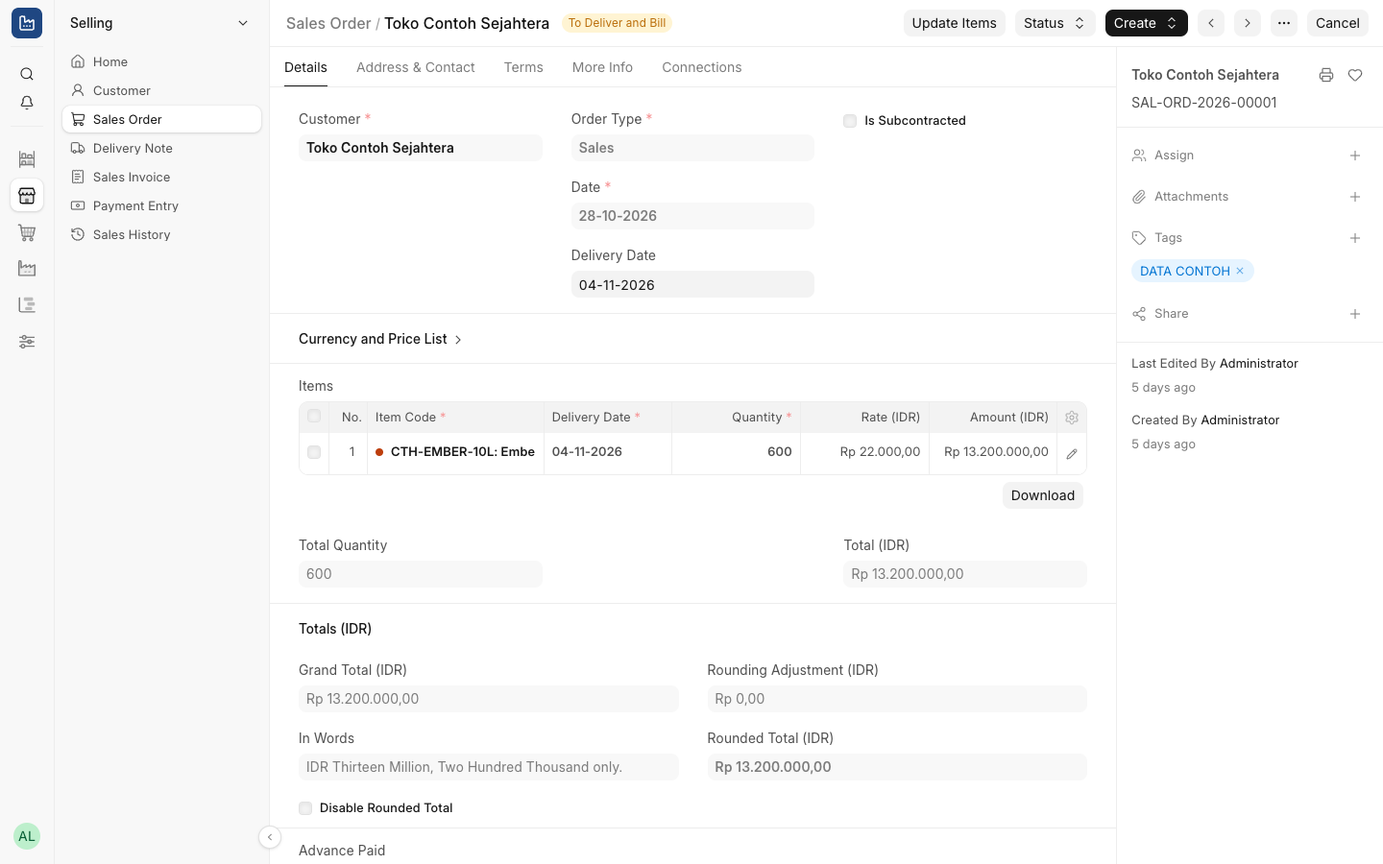
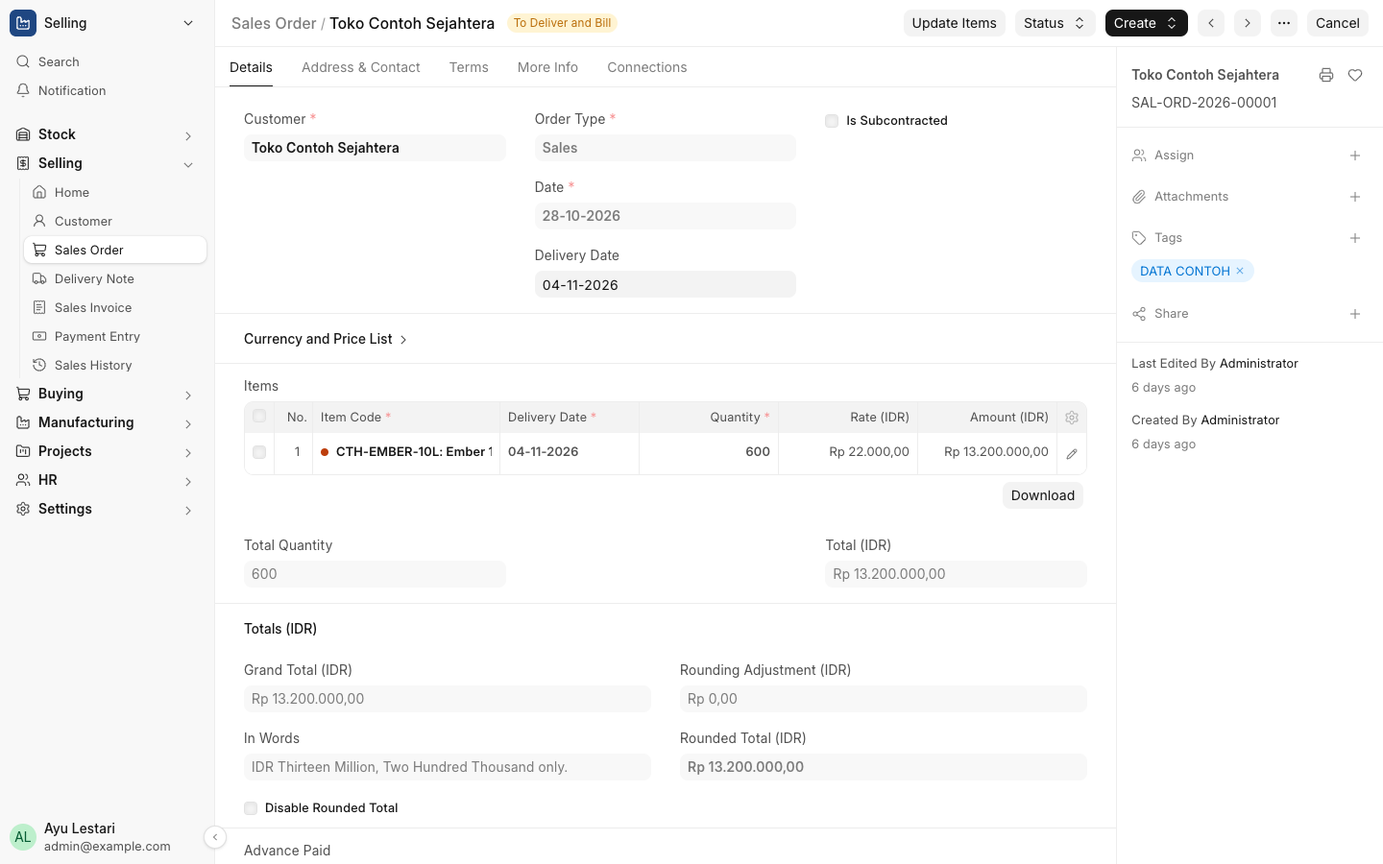
docs: the accordion menu in the rules, guides and screenshots

diff --git a/docs/superpowers/plans/2026-11-03-sidebar-accordion-plan.md b/docs/superpowers/plans/2026-11-03-sidebar-accordion-plan.md
@@ -41,10 +41,10 @@ Timebox 1 hour. Nothing from this task is committed except the notes appended to
 
 **Files:** scratch only (paste into the browser console on `http://erp.localhost:8002` as `admin@example.com`).
 
-- [ ] **Step 1:** In the console, patch `frappe.ui.Sidebar.prototype.load_sidebar_data` as Task 3 describes (merged list for the shells Stock, Selling, Buying, Manufacturing, Projects, Shift & Attendance, Setup), patch `frappe.ui.sidebar_item.TypeLink.prototype.get_path` to use `this.item.erp_shell || this.current_module`, then `frappe.app.sidebar.setup(frappe.app.sidebar.current_module)`.
-- [ ] **Step 2:** Answer and write down: (a) do sections render collapsible and open the current module (`expand_parent_section`)? (b) do hrefs of another module's links carry that module's shell, and does clicking one land with that module open and the link highlighted? (c) does section open/closed state (`section_breaks_state`, localStorage) behave per shell or need one shared key? (d) is `app_include_js` loaded before the desk's first `Sidebar.setup` (reload with the patch in the bundle via a temporary local edit, not committed)?
-- [ ] **Step 3:** Dock and fold. Hide `#desk-dock` with CSS and check what disappears with it: search, notifications (Frappe already draws both in the sidebar's `.standard-items-band`?), the user avatar menu (`.dock-user-button`), the app logo (`.dock-logo`). Then fold the sidebar: with the dock hidden, does `hides_when_collapsed()` (true while the dock is pinned) slide it shut, and what makes it fold to icons instead (setting `frappe.app.sidebar.dock.is_pinned = false`, or overriding `hides_when_collapsed` on our shells)? Pick the smallest way to keep: avatar menu reachable at the bottom left, ERP logo on top, fold to icons.
-- [ ] **Step 4:** Append "Spike notes" at the end of this plan: the answers, the chosen dock/fold method, and any change to Tasks 3-4 they force. Commit only the plan: `git commit -m "docs(plan): sidebar accordion spike notes"`.
+- [x] **Step 1:** In the console, patch `frappe.ui.Sidebar.prototype.load_sidebar_data` as Task 3 describes (merged list for the shells Stock, Selling, Buying, Manufacturing, Projects, Shift & Attendance, Setup), patch `frappe.ui.sidebar_item.TypeLink.prototype.get_path` to use `this.item.erp_shell || this.current_module`, then `frappe.app.sidebar.setup(frappe.app.sidebar.current_module)`.
+- [x] **Step 2:** Answer and write down: (a) do sections render collapsible and open the current module (`expand_parent_section`)? (b) do hrefs of another module's links carry that module's shell, and does clicking one land with that module open and the link highlighted? (c) does section open/closed state (`section_breaks_state`, localStorage) behave per shell or need one shared key? (d) is `app_include_js` loaded before the desk's first `Sidebar.setup` (reload with the patch in the bundle via a temporary local edit, not committed)?
+- [x] **Step 3:** Dock and fold. Hide `#desk-dock` with CSS and check what disappears with it: search, notifications (Frappe already draws both in the sidebar's `.standard-items-band`?), the user avatar menu (`.dock-user-button`), the app logo (`.dock-logo`). Then fold the sidebar: with the dock hidden, does `hides_when_collapsed()` (true while the dock is pinned) slide it shut, and what makes it fold to icons instead (setting `frappe.app.sidebar.dock.is_pinned = false`, or overriding `hides_when_collapsed` on our shells)? Pick the smallest way to keep: avatar menu reachable at the bottom left, ERP logo on top, fold to icons.
+- [x] **Step 4:** Append "Spike notes" at the end of this plan: the answers, the chosen dock/fold method, and any change to Tasks 3-4 they force. Commit only the plan: `git commit -m "docs(plan): sidebar accordion spike notes"`.
 
 ### Task 2: Server: the menu in boot, header icons, fixed link icons
 
@@ -57,7 +57,7 @@ Timebox 1 hour. Nothing from this task is committed except the notes appended to
 **Interfaces:**
 - Produces: `IKON_MODUL: dict[str, str]` (dock/sidebar name → Lucide name, keys exactly `IKON`'s); `IKON_RUMAH = "house"`; `menu_samping(bootinfo) -> None` sets `bootinfo.erp_menu = [{"shell": str, "label": str, "icon": str}, ...]`: `IKON` order, only shells present in `bootinfo.module_sidebars` with at least one item of type Link besides the home Workspace, `label` = `LABEL.get(shell, shell)` (untranslated; the client calls `__()`), `icon` = `IKON_MODUL[shell]`.
 
-- [ ] **Step 1: Write the failing tests**
+- [x] **Step 1: Write the failing tests**
 
 ```python
 def test_menu_samping_per_profil(self):
@@ -95,10 +95,10 @@ def test_ikon_ada(self):
 
 Extend `test_ikon_sidebar`: the first Link of each `SIDEBAR` shell (the home Workspace) has icon `IKON_RUMAH`; no shown link's icon equals its own module's `IKON_MODUL` icon.
 
-- [ ] **Step 2:** Run `cd ~/Desktop/Projects/erp-internal-bench && bench --site erp-test.localhost run-tests --module erp_internal.tests.test_tampilan`. Expected: the new tests fail (ImportError on `IKON_MODUL`/`menu_samping`).
-- [ ] **Step 3: Implement.** `IKON_MODUL` with the Global Constraints icons. `IKON_LINK`: add Stock Entry `arrow-left-right`, Delivery Note `truck`; Warehouse must not repeat Stock's `warehouse`: use `building-2` (check it exists, the sprite test will); Settings links must not repeat `settings`: use `sliders-horizontal` for all `* Settings` rows. `_baris_sidebar`: the home row (the base `beranda` and the `RUMAH_SENDIRI` row) gets `IKON_RUMAH`, under the same "only where it differs from the base" rule. `menu_samping` wrapped in `try/except Exception: frappe.log_error("erp_internal: menu_samping")`. Comment above `IKON_MODUL` says why (Abel 2026-11-03, labelled one menu). Add the hook.
-- [ ] **Step 4:** Run the module again, then `bench --site erp.localhost migrate` twice and confirm `test_idempoten` passes (a second `terapkan` writes nothing). Expected: all `test_tampilan` tests pass.
-- [ ] **Step 5:** Commit `feat(tampilan): erp_menu in boot and module icons for the accordion sidebar`.
+- [x] **Step 2:** Run `cd ~/Desktop/Projects/erp-internal-bench && bench --site erp-test.localhost run-tests --module erp_internal.tests.test_tampilan`. Expected: the new tests fail (ImportError on `IKON_MODUL`/`menu_samping`).
+- [x] **Step 3: Implement.** `IKON_MODUL` with the Global Constraints icons. `IKON_LINK`: add Stock Entry `arrow-left-right`, Delivery Note `truck`; Warehouse must not repeat Stock's `warehouse`: use `building-2` (check it exists, the sprite test will); Settings links must not repeat `settings`: use `sliders-horizontal` for all `* Settings` rows. `_baris_sidebar`: the home row (the base `beranda` and the `RUMAH_SENDIRI` row) gets `IKON_RUMAH`, under the same "only where it differs from the base" rule. `menu_samping` wrapped in `try/except Exception: frappe.log_error("erp_internal: menu_samping")`. Comment above `IKON_MODUL` says why (Abel 2026-11-03, labelled one menu). Add the hook.
+- [x] **Step 4:** Run the module again, then `bench --site erp.localhost migrate` twice and confirm `test_idempoten` passes (a second `terapkan` writes nothing). Expected: all `test_tampilan` tests pass.
+- [x] **Step 5:** Commit `feat(tampilan): erp_menu in boot and module icons for the accordion sidebar`.
 
 ### Task 3: Client: the accordion
 
@@ -111,11 +111,11 @@ Extend `test_ikon_sidebar`: the first Link of each `SIDEBAR` shell (the home Wor
 - Consumes: `frappe.boot.erp_menu` (Task 2), `frappe.boot.module_sidebars[shell].items`, the Spike notes' dock/fold method.
 - Produces: `erp_internal.menu_samping.gabung(menu, sidebars) -> Array<item>` (pure, exported on `erp_internal.menu_samping` for the console and cek_layar): for each menu entry a `{type: "Section Break", label: __(m.label), icon: m.icon, collapsible: 1, erp_shell: m.shell}` followed by copies of that shell's items with `child: 1` and `erp_shell: m.shell`; a shell's own Section Breaks are dropped (one level of nesting only), its children kept flat under the module. Body class `erp-menu` while the sidebar shows our menu.
 
-- [ ] **Step 1: Implement `gabung` and the patches.** Patch `frappe.ui.Sidebar.prototype.load_sidebar_data`: call the original; if `erp_menu` names `this.current_module`, or the current module is `Accounts`/`Leaves` (`MODUL_TANPA_IKON`: show the menu with no section forced open), set `this.sidebar_items = gabung(...)` and run `this.nest_section_items()`; toggle `body.erp-menu`. Patch `frappe.ui.sidebar_item.TypeLink.prototype.get_path` to pass `this.item.erp_shell || this.current_module`. Draw the header icon on our Section Breaks (Frappe's template draws none for a non-indented one): after `make_sidebar`, prepend `frappe.utils.icon(icon, "sm")` to each `.section-item[data-id=<label>] .section-break`. Section state: as the spike found (one shared key if per-shell state makes sections jump). Keep the file's comments to the why, like `erp_internal.bundle.js`.
-- [ ] **Step 2: Fallback.** Wrap each patched body in `try { … } catch (e) { console.error("erp_internal menu_samping", e); return original result; }` so Frappe's own list shows.
-- [ ] **Step 3: Header and CSS.** Under `body.erp-menu` the sidebar header (`sidebar_header.js`, today the module name with its switcher) shows the ERP tile's icon and title (`app_logo_url`/`app_title` of the `erpnext` entry in `frappe.boot.app_data`, set by `merek_aplikasi`) linking to `/desk`, on HR pages too. Then: hide the dock per the spike's method; section headers read as menu rows (normal weight 600, 13 px, same padding as links, chevron right/down), not small grey captions; folded sidebar shows header icons only with `title` tooltips; move the fold arrow rule that parks it in the dock (`.sidebar-hidden … left: -45px`) so it applies only when the dock shows (`body:not(.erp-menu)`), and place it at the sidebar's bottom edge otherwise, still >= 32 px.
-- [ ] **Step 4: Check by hand** on `erp.localhost` after `bench build --app erp_internal` and a hard reload, as admin@: Stock Entry page shows seven headers with Stock open; a click on Selling ▸ Sales Order lands on `/desk/selling/sales-order` with Selling open and the link highlighted; Accounts page: open a Sales Invoice from Selling, the accordion shows; fold, reload, unfold; System app (developer@, Build tile) shows Frappe's rail. Temporarily throw inside `gabung` and confirm the old dock + sidebar show, then remove the throw.
-- [ ] **Step 5:** Commit `feat(desk): one labelled accordion sidebar on ERP and HR pages`.
+- [x] **Step 1: Implement `gabung` and the patches.** Patch `frappe.ui.Sidebar.prototype.load_sidebar_data`: call the original; if `erp_menu` names `this.current_module`, or the current module is `Accounts`/`Leaves` (`MODUL_TANPA_IKON`: show the menu with no section forced open), set `this.sidebar_items = gabung(...)` and run `this.nest_section_items()`; toggle `body.erp-menu`. Patch `frappe.ui.sidebar_item.TypeLink.prototype.get_path` to pass `this.item.erp_shell || this.current_module`. Draw the header icon on our Section Breaks (Frappe's template draws none for a non-indented one): after `make_sidebar`, prepend `frappe.utils.icon(icon, "sm")` to each `.section-item[data-id=<label>] .section-break`. Section state: as the spike found (one shared key if per-shell state makes sections jump). Keep the file's comments to the why, like `erp_internal.bundle.js`.
+- [x] **Step 2: Fallback.** Wrap each patched body in `try { … } catch (e) { console.error("erp_internal menu_samping", e); return original result; }` so Frappe's own list shows.
+- [x] **Step 3: Header and CSS.** Under `body.erp-menu` the sidebar header (`sidebar_header.js`, today the module name with its switcher) shows the ERP tile's icon and title (`app_logo_url`/`app_title` of the `erpnext` entry in `frappe.boot.app_data`, set by `merek_aplikasi`) linking to `/desk`, on HR pages too. Then: hide the dock per the spike's method; section headers read as menu rows (normal weight 600, 13 px, same padding as links, chevron right/down), not small grey captions; folded sidebar shows header icons only with `title` tooltips; move the fold arrow rule that parks it in the dock (`.sidebar-hidden … left: -45px`) so it applies only when the dock shows (`body:not(.erp-menu)`), and place it at the sidebar's bottom edge otherwise, still >= 32 px.
+- [x] **Step 4: Check by hand** on `erp.localhost` after `bench build --app erp_internal` and a hard reload, as admin@: Stock Entry page shows seven headers with Stock open; a click on Selling ▸ Sales Order lands on `/desk/selling/sales-order` with Selling open and the link highlighted; Accounts page: open a Sales Invoice from Selling, the accordion shows; fold, reload, unfold; System app (developer@, Build tile) shows Frappe's rail. Temporarily throw inside `gabung` and confirm the old dock + sidebar show, then remove the throw.
+- [x] **Step 5:** Commit `feat(desk): one labelled accordion sidebar on ERP and HR pages`.
 
 ### Task 4: cek_layar per role
 
@@ -125,10 +125,10 @@ Extend `test_ikon_sidebar`: the first Link of each `SIDEBAR` shell (the home Wor
 **Interfaces:**
 - Consumes: `erp_internal.menu_samping.gabung`, `body.erp-menu`, `.section-item`, the menu labels.
 
-- [ ] **Step 1: Replace the rail checks** (the per-app rail module list and the folded-arrow-in-dock check, around lines 100-170) with, per profile (`PROFIL[p].modul`, same order as `IKON`): `#desk-dock` not visible on an ERP page; the section headers' text equals the profile's labels (`LABEL` names: HR, Settings) in order; each header has an icon; clicking a closed header shows its links; the module of the page opened is open on arrival; fold → icons only and the arrow >= 32 px with nothing over its centre, reload keeps it folded, unfold.
-- [ ] **Step 2: Cross-module and edge checks:** from Stock click Selling ▸ Delivery Note: URL `/desk/selling/delivery-note`, exactly one `.active-sidebar` (or Frappe's active class, as found in the spike) and it sits under Selling; Admin: open `/desk/selling/sales-invoice/new`, the accordion shows; Developer: Build tile shows `#desk-dock` (Frappe's rail kept); at 390x844 the drawer opens with the same headers and closes after a link click. Screenshot `<profile>-menu.png` and `<profile>-menu-lipat.png` in `tools/hasil/`.
-- [ ] **Step 3:** Run `ERP_SANDI=<SAMPLE_PASSWORD> node tools/cek_layar.mjs` (bench running, after `bench build --app erp_internal`). Expected: exit 0, all three users OK.
-- [ ] **Step 4:** Commit `test(cek_layar): the accordion sidebar per role`.
+- [x] **Step 1: Replace the rail checks** (the per-app rail module list and the folded-arrow-in-dock check, around lines 100-170) with, per profile (`PROFIL[p].modul`, same order as `IKON`): `#desk-dock` not visible on an ERP page; the section headers' text equals the profile's labels (`LABEL` names: HR, Settings) in order; each header has an icon; clicking a closed header shows its links; the module of the page opened is open on arrival; fold → icons only and the arrow >= 32 px with nothing over its centre, reload keeps it folded, unfold.
+- [x] **Step 2: Cross-module and edge checks:** from Stock click Selling ▸ Delivery Note: URL `/desk/selling/delivery-note`, exactly one `.active-sidebar` (or Frappe's active class, as found in the spike) and it sits under Selling; Admin: open `/desk/selling/sales-invoice/new`, the accordion shows; Developer: Build tile shows `#desk-dock` (Frappe's rail kept); at 390x844 the drawer opens with the same headers and closes after a link click. Screenshot `<profile>-menu.png` and `<profile>-menu-lipat.png` in `tools/hasil/`.
+- [x] **Step 3:** Run `ERP_SANDI=<SAMPLE_PASSWORD> node tools/cek_layar.mjs` (bench running, after `bench build --app erp_internal`). Expected: exit 0, all three users OK.
+- [x] **Step 4:** Commit `test(cek_layar): the accordion sidebar per role`.
 
 ### Task 5: Docs, guide screenshots, full run
 
@@ -138,7 +138,22 @@ Extend `test_ikon_sidebar`: the first Link of each `SIDEBAR` shell (the home Wor
 - Modify: `docs/panduan/*.md` wording about the icon rail; retake every `docs/panduan/gambar/*.png` that shows the sidebar
 - Modify: `docs/TODO.md`, `docs/PROGRESS.md`
 
-- [ ] **Step 1:** `grep -rn -i "rail\|dock\|icon" CLAUDE.md README.md docs/panduan .claude/rules` and fix every line the change made wrong. Retake the guide screenshots the way they were made (see `docs/panduan/` and PROGRESS for the script used last time).
-- [ ] **Step 2:** Run `bench --site erp-test.localhost run-tests --app erp_internal`, `node --test tools/denah.test.mjs`, `ERP_SANDI=… node tools/lantai.mjs` (Production Floor still full screen). Expected: all pass.
-- [ ] **Step 3:** Run the `docs-sync` agent with the changed files; fix what it finds.
-- [ ] **Step 4:** Commit `docs: the accordion sidebar in the rules, guides and screenshots`.
+- [x] **Step 1:** `grep -rn -i "rail\|dock\|icon" CLAUDE.md README.md docs/panduan .claude/rules` and fix every line the change made wrong. Retake the guide screenshots the way they were made (see `docs/panduan/` and PROGRESS for the script used last time).
+- [x] **Step 2:** Run `bench --site erp-test.localhost run-tests --app erp_internal`, `node --test tools/denah.test.mjs`, `ERP_SANDI=… node tools/lantai.mjs` (Production Floor still full screen). Expected: all pass.
+- [x] **Step 3:** Run the `docs-sync` agent with the changed files; fix what it finds.
+- [x] **Step 4:** Commit `docs: the accordion sidebar in the rules, guides and screenshots`.
+
+## Execution notes (2026-11-03)
+
+- Task 1 (spike) was folded into Task 3: Frappe's dock-less mode already gives search, notifications, the user menu
+  and fold-to-icons, so the only point to prove was the patch itself, done directly in the browser.
+- The dock is not hidden by CSS: `menu_samping.js` makes `Sidebar.dock_enabled` return false on our shells, and the
+  header is Frappe's own dock-less header (the app's icon and the module, with its switcher), not "ERP" everywhere.
+- Section state: one shared key `erp_menu` (patch on `TypeSectionBreak.prepare`); headers are `keep_closed`, and a
+  `make_sidebar` patch opens the page's own module even when no link is lit (a module home, a phone's shut drawer).
+- Icons beyond the plan: Purchase Order `clipboard-list`, Work Order `wrench`, Project `folder-open`, since their base
+  icons equal their module's header icon. `_baris_sidebar` keys base icons by `item_key` (a home Workspace shares its
+  `link_to` with other rows, which broke idempotence).
+- `cek_layar` checks the lit and open module on `/desk/stock/stock-entry` (Admin's new User form is a dialog that
+  lights nothing) and writes `<profile>-menu.png` and `<profile>-menu-hp.png`; the folded view stays in
+  `<profile>-sidebar.png`'s fold steps, no separate `-menu-lipat.png`.

diff --git a/.claude/rules/tampilan.md b/.claude/rules/tampilan.md
@@ -9,7 +9,8 @@ Icon rows. What a user sees, and the site layer we write for each (never the app
 | Surface | App's row (read only) | Our site layer |
 |---|---|---|
 | Apps screen | `add_to_apps_screen` hook (erpnext: any desk user; hrms: Employee read) | `saring_aplikasi` (`extend_bootinfo`): a tile with no visible rail entry for the user is hidden |
-| Rail of modules | `<app>/dock/<app>/<app>.json` (`Dock`, standard 1) | `Dock` with blank `user`: `IKON` order, rest `hidden` 1, title from `LABEL` |
+| Rail of modules | `<app>/dock/<app>/<app>.json` (`Dock`, standard 1) | `Dock` with blank `user`: `IKON` order, rest `hidden` 1, title from `LABEL`; not shown on ERP and HR pages (the menu below) |
+| Menu (ERP and HR pages) | none | `menu_samping` (`extend_bootinfo`, `erp_menu`) + `public/js/menu_samping.js`: every module of the user as a collapsible header |
 | Module sidebar | `<app>/<module>/sidebar/<name>/<name>.json` (`Sidebar`) | `Custom Sidebar` with blank `user`: Home, then `SIDEBAR`, rest hidden |
 | Module home | `Workspace` (standard, content blocks) | `Custom Workspace` (`PINTASAN`): shortcuts only (`BLOK_TETAP` empty: no number or link cards) |
 | Per user | none | `User.block_modules` from the Module Profile (`MODUL_BOLEH`: Admin, User; Developer has none) |
@@ -17,7 +18,7 @@ Icon rows. What a user sees, and the site layer we write for each (never the app
 - `Sidebar` and standard `Dock`/`Workspace` content refuse edits outside developer mode; that is why everything is a
   layer. A saved dock layer drops entries it does not name, so `_dok` names every entry.
 - Short screens (Samuel, 2026-10-28): each home's shortcuts point at exactly its sidebar's links
-  (`test_rumah_sama_dengan_sidebar`), taken from the guides' flows (`docs/panduan/`). Rail (Admin): Stock, Selling, Buying,
+  (`test_rumah_sama_dengan_sidebar`), taken from the guides' flows (`docs/panduan/`). Modules (Admin): Stock, Selling, Buying,
   Manufacturing, Projects, HR (`Shift & Attendance`, `LABEL`), Settings; User: Stock and Manufacturing. Accounts and Leaves have no
   icon: invoices and payments sit in Selling and Buying, leave in HR. Their modules stay allowed
   (`MODUL_TANPA_IKON`) with a short sidebar and home, for a page Frappe opens in its own module. Admin-only
@@ -55,7 +56,7 @@ Icon rows. What a user sees, and the site layer we write for each (never the app
 - Three Role Profiles (`PROFIL_PERAN`): User, Admin, Developer. Admin holds the manager roles plus ERPNext's *User roles (`_PERAN_USER`, not `ERP User`)
   (Stock Manager alone reads neither Company nor Stock Balance in v16) and `PERAN_ADMIN` ("ERP Admin"). Every
   profile must read Company (`test_izin_per_profil`); `setup.IZIN_TAMBAHAN` gives Manufacturing User that read.
-- User (Samuel, 2026-11-02) is Stock User plus `PERAN_USER` ("ERP User"): rail Stock and Manufacturing only (`IKON`,
+- User (Samuel, 2026-11-02) is Stock User plus `PERAN_USER` ("ERP User"): modules (menu headers) Stock and Manufacturing only (`IKON`,
   `MODUL_BOLEH`, no Accounts or Leaves). `PERAN_USER` holds Production Entry (its JSON), reads Machine Capacity,
   Reject Reason, Sales History (JSON; Order Readiness is built on it), Workstation, Price List, Account,
   Stock Settings and Customer Group (`IZIN_TAMBAHAN`; a Delivery Note checks the customer's account, the Material
@@ -65,7 +66,7 @@ Icon rows. What a user sees, and the site layer we write for each (never the app
   `FLAG_HASIL` (Production Entry's own Manufacture and Repack); the `has_permission` hook on `HANYA_ADMIN` keeps Stock
   User's other documents read only. Delivery Note without a Sales Order: `setup.PENGATURAN_ALUR` `so_required` No.
   Frappe resaves a changed profile's users in a background job; `_pengguna_profil` does it at migrate.
-- Admin's rail adds `Setup`, shown as "Settings" (`LABEL`): users, Company, opening stock, the business settings and the reject reasons; its home is
+- Admin's modules (menu headers) add `Setup`, shown as "Settings" (`LABEL`): users, Company, opening stock, the business settings and the reject reasons; its home is
   ERPNext's `Home` Workspace (`PINTASAN["Home"]`). System Settings and Build stay with System Manager: Frappe's own
   Apps tile (`check_app_permission`) shows for Developer only.
 - User management: `setup.IZIN_TAMBAHAN` gives `ERP Admin` User read/write/create on permlevel 0 and 1 (roles sit on
@@ -78,7 +79,7 @@ Icon rows. What a user sees, and the site layer we write for each (never the app
   `sites/assets` symlink, no build); System Settings `app_name` is "Delta Anugrah". Login uses `get_app_logo`
   (Website Settings first), the Apps screen top left Navbar Settings. `setup.LOGO` is `delta-anugrah.svg`, hand-drawn
   from the original JPEG; the PNGs (512 px logo, favicons) are rendered from it, the favicon stays PNG.
-- App tiles and the rail's top slot: `tampilan.merek_aplikasi` (second `extend_bootinfo`, after `saring_aplikasi`)
+- App tiles, the sidebar header on ERP/HR pages and the rail's top slot on System pages: `tampilan.merek_aplikasi` (second `extend_bootinfo`, after `saring_aplikasi`)
   sets `app_title` from `NAMA_APLIKASI` (erpnext ERP, hrms HR, frappe System) and `app_logo_url` from
   `IKON_APLIKASI` (`public/images/aplikasi-*.svg`: Delta blue #1f4782 rounded square, white Lucide glyph, path data
   copied from lucide-static 1.47.0, ISC). The names are in `id.csv` and `test_layar_diterjemahkan`. The Delta logo
@@ -88,13 +89,28 @@ Icon rows. What a user sees, and the site layer we write for each (never the app
   `update_workspace_settings`, `delete_page`, `set_workspace_module`, `restore_workspace_edits`) to
   `erp_internal/ruang_kerja.py`: Frappe's function runs unchanged, then `saring_aplikasi` and `merek_aplikasi` on
   the reply (`test_ruang_kerja`).
+- One labelled menu instead of the rail (Abel, 2026-11-03: nobody knew what the bare icons meant). `menu_samping`
+  sends `erp_menu`: the user's modules in `IKON` order that have a link in their boot sidebar, `{shell, label
+  (LABEL), icon (IKON_MODUL)}`; ERP and HR share it. `public/js/menu_samping.js` (in `erp_internal.bundle.js`, needs
+  `bench build`) patches Frappe's `Sidebar` on a shell named there, or on Accounts/Leaves (`MODUL_TANPA_IKON`): its
+  items become one `Section Break` per module (icon drawn by us, open/closed state under one key `erp_menu`) with that
+  module's resolved items as children, each routed into its own shell (`TypeLink.get_path`); the page's module
+  opens by itself (`make_sidebar`). `Sidebar.dock_enabled` returns false there, so Frappe runs dock-less: search,
+  notifications and the user menu sit in the sidebar, the header shows the app's icon and the module, and folding
+  leaves a rail of module icons (our CSS hides the links). Every patch falls back to Frappe's own code on an error.
+  Frappe's System app (Build) keeps its rail. No link repeats its module's header icon (`test_ikon_sidebar`: Work
+  Order wrench, Purchase Order clipboard-list, Project folder-open, the settings sliders); each home row is
+  `IKON_RUMAH` house; every icon we name must exist in the sprite (`test_ikon_ada`). `cek_layar` checks the headers per
+  profile, the open and lit module, a link into another module, an Accounts page (Admin), Build's rail (Developer),
+  the folded rail and the phone drawer.
 - Our CSS is one plain file, `public/css/erp_internal.css` (`hooks.app_include_css`, served as-is: no build, no
   `bench start` restart, only `clear-cache` after a hooks change). It gives the Apps screen avatar a pointer and
   keeps the sidebar's fold arrow visible on a desktop. Frappe v16.53 folds the module sidebar with that arrow
-  (or the 8 px edge), but shows the arrow only on hover. Beside the pinned dock a folded sidebar slides shut and
+  (or the 8 px edge), but shows the arrow only on hover. On Frappe's own pages (System app), beside the pinned dock a folded sidebar slides shut and
   the dock stays as the rail; Frappe then parks the arrow half under the dock (z-index 1030), so our CSS moves
   it into the dock above the profile avatar as a 32 px button with border and shadow (`.sidebar-hidden`: left
-  -45px, bottom 60px, z-index 1031; Abel 2026-10-29: the 24 px disc was too small). The choice is kept in
+  -45px, bottom 60px, z-index 1031; Abel 2026-10-29: the 24 px disc was too small). On the menu's folded rail it is the
+  same 32 px button at its edge. The choice is kept in
   localStorage `desk-sidebar-collapsed`. `cek_layar` folds, checks the folded arrow is >= 32 px and on top at its
   centre, reloads and reopens it for each user.
 - `setup.IMPOR_BOLEH` (`_impor_boleh`) sets `allow_import` 1 on Stock Reconciliation so Data Import loads opening stock.

diff --git a/CLAUDE.md b/CLAUDE.md
@@ -6,7 +6,7 @@ ERP Internal: a custom Frappe app (`erp_internal`) on ERPNext v16 + HRMS v16 for
 (Samuel, 2026-10-28). Plain ERPNext showing only the modules in use, nothing from BPT.
 
 Status 2026-11-03: every code task (1-6, 4b, 9-13, 15, 16, `contoh.py`) runs on the dev sites, redone for one
-company and three roles (plan "Revision 4"): 233 tests (13 unit + 220 integration, 2026-11-03, all OK; one more since and `test_akun` (2), their modules OK; `run-tests --app erp_internal`, incl. `test_mesin_barang`, `test_production_floor`, `test_kapasitas`, `test_hasil_produksi`, `test_plan_vs_actual`), `cek_layar` 3 users OK (shortcut-only homes, at most 12 each; Plan vs Actual raised the cap from 10), `lantai.mjs` all cases OK (2026-11-03, perf 60 fps, 0 frames over 25 ms), sample
+company and three roles (plan "Revision 4"): 239 tests (13 unit + 226 integration, 2026-11-03 after the accordion menu, all OK; `run-tests --app erp_internal`, incl. `test_mesin_barang`, `test_production_floor`, `test_kapasitas`, `test_hasil_produksi`, `test_plan_vs_actual`), `cek_layar` 3 users OK (shortcut-only homes, at most 12 each; Plan vs Actual raised the cap from 10), `lantai.mjs` all cases OK (2026-11-03, perf 60 fps, 0 frames over 25 ms), sample
 data and guide screenshots on `erp.localhost`, local dry runs of the go-live tasks 8, 14 and 17 done (results in
 the plan). Task 7's compose boot, backup and restore drill ran locally 2026-10-31 (`make setup`). Root `Makefile`: `make start-local` runs the same stack locally with only Docker and Samuel's real data (README "Run it on your computer"). Open: the DigitalOcean server and the
 real go-live with Samuel.
@@ -78,8 +78,8 @@ Workflow skill: `/setup-bench` (`.claude/skills/setup-bench/SKILL.md`).
 - One company: setup builds for each Company with `erp_aktif` ticked (`setup.perusahaan()`); a real site has one.
 - Three Role Profiles (`tampilan.PROFIL_PERAN`): User (Samuel 2026-11-02: Stock User + our role `ERP User`; creates
   only Production Entry, a Delivery Note made directly and a Material Receipt Stock Entry, sets a machine's status,
-  reads the rest; rail Stock and Manufacturing; `batas_user.py`, `test_batas_user`), Admin (manager roles, Work
-  Orders, BOMs, users, business settings under the Settings rail entry; role `ERP Admin`), Developer (Admin plus
+  reads the rest; menu Stock and Manufacturing; `batas_user.py`, `test_batas_user`), Admin (manager roles, Work
+  Orders, BOMs, users, business settings under the Settings menu header; role `ERP Admin`), Developer (Admin plus
   System Manager). A changed profile's users are resaved at migrate (`tampilan._pengguna_profil`). `pengguna.py`
   keeps an Admin from handing out any role outside Admin and User or touching a Developer account (User
   validate/has_permission, Has Role insert); `test_pengguna` tries every path.
@@ -90,8 +90,10 @@ Workflow skill: `/setup-bench` (`.claude/skills/setup-bench/SKILL.md`).
   (`sales_history.judul`, set in validate; old rows filled by `patches/judul_riwayat.py`). Document numbers people
   quote (Production Entry `PE-…`, Work Order, BOM) stay visible. Company (one company, fills itself) is off our
   forms and filters: `depends_on: eval:!doc.company` on Sales History and Production Entry, so it shows only if empty.
-- `tampilan.saring_aplikasi` (`extend_bootinfo`) hides an Apps screen tile with nothing on that user's rail; it
-  must never fail boot. `hooks.py` `before_tests` completes the test site's wizard (`tests.utils.sebelum_tes`).
+- `tampilan.saring_aplikasi` (`extend_bootinfo`) hides an Apps screen tile with nothing in that user's modules (the Dock layer, `IKON`); it
+  must never fail boot. `tampilan.menu_samping` (`extend_bootinfo`) sends `erp_menu`, the user's modules in `IKON`
+  order with `IKON_MODUL` icons, which `public/js/menu_samping.js` turns into one labelled, collapsible menu on ERP and
+  HR pages instead of the icon rail (Abel 2026-11-03; `.claude/rules/tampilan.md`). `hooks.py` `before_tests` completes the test site's wizard (`tests.utils.sebelum_tes`).
 - `erp_internal/proyek.py`: Timesheet `before_submit` (hooks.py `doc_events`) lets only Admin and Developer
   (`PERAN_ATASAN`) submit someone else's timesheet; `setup.IZIN_TAMBAHAN` gives Employee `submit`, and `ERP User` read on Workstation, Price List, Account, Stock Settings and Customer Group
   (the last two read by the Material Receipt and Delivery Note forms).

diff --git a/README.md b/README.md
@@ -125,7 +125,7 @@ transparent), `favicon-32.png` and `favicon-192.png`. Settings point at the SVG;
 The Apps screen tiles are named ERP (ERPNext), HR (Frappe HR), Production Floor (the floor page, for Manufacturing
 User) and System (Frappe, Developer only); Indonesian: ERP, SDM, Sistem. Each has its own icon in one style, a Delta-blue rounded square with a white Lucide glyph
 (ISC licence): `aplikasi-erp.svg` (factory), `aplikasi-hr.svg` (users), `aplikasi-sistem.svg` (settings), `aplikasi-lantai.svg` (gauge). The
-rail's top slot inside an app shows that app's icon. That is `tampilan.merek_aplikasi` (`extend_bootinfo`, the boot
+sidebar header inside an app shows that app's icon (System app: the rail's top slot). That is `tampilan.merek_aplikasi` (`extend_bootinfo`, the boot
 copy of `app_data` only); a workspace saved from the desk keeps them (`erp_internal/ruang_kerja.py`).
 
 ## Language
@@ -189,10 +189,13 @@ dropped frames, long tasks, draw calls) in a visible browser; the header of `too
 
 ## Screens
 
+On ERP and HR pages the left side is one labelled menu instead of Frappe's icon rail (`erp_internal/public/js/menu_samping.js`,
+`tampilan.menu_samping`): a collapsible header per module, with its icon (`IKON_MODUL`), and the module's links under it. The
+page's module opens by itself; several can be open at once. Frappe's own System app keeps its rail.
 Every module shows only what the guides' flows use (`tampilan.IKON`, `SIDEBAR`, `PINTASAN`); each home is a row of
-shortcuts to the same links as its sidebar, nothing else:
+shortcuts to the same links as its menu entries, nothing else:
 
-| Rail icon | Home and sidebar |
+| Menu header | Home and links |
 |---|---|
 | Stock | Stock Entry, Delivery Note, Item, Warehouse, Stock Balance, Stock Ledger |
 | Selling | Customer, Open Sales Orders (Sales Order), Delivery Note, Unpaid Sales Invoices (Sales Invoice), Payment Entry, Sales History |
@@ -202,10 +205,10 @@ shortcuts to the same links as its sidebar, nothing else:
 | HR (HR app; its home is our Workspace "HR") | Employee, Employee Checkin, Today's Attendance (Attendance), New Leave Application, Shift Type, Shift Assignment, Holiday List, Leave Allocation |
 | Settings (Admin) | Users, Company, Opening Stock & Stock Count (Stock Reconciliation), Stock, Selling, Buying, Manufacturing, Reject Reason, Accounts, Projects and HR Settings |
 
-The sidebar folds into the rail and opens again with the round arrow at the panel's bottom edge (when the panel is folded, in the dock above the profile avatar); the browser
-remembers the choice (`erp_internal/public/css/erp_internal.css` keeps the arrow visible).
+The menu folds to a rail of module icons and opens again with the 32 px arrow at the panel's bottom edge; the browser
+remembers the choice (`erp_internal/public/css/erp_internal.css` keeps the arrow visible). On a phone it is Frappe's drawer.
 
-The table is Admin's view. A User's rail has only Stock and Manufacturing (`IKON`, `MODUL_BOLEH`); within them they see only what their roles read. A direct URL to another permitted
+The table is Admin's view. A User's menu has only Stock and Manufacturing (`IKON`, `MODUL_BOLEH`); within them they see only what their roles read. A direct URL to another permitted
 doctype or report still opens.
 
 ## Roles
@@ -214,11 +217,11 @@ Three Role Profiles (`erp_internal/tampilan.py` `PROFIL_PERAN`), all in the one 
 
 - **User** (decided 2026-11-02): Stock User plus `ERP User`. Creates only Production Entries, Delivery Notes made
   directly and Material Receipt stock entries, sets a machine's status on the Production Floor, and reads stock,
-  items, Work Orders, BOMs and the production reports; rail Stock and Manufacturing (`erp_internal/batas_user.py`).
+  items, Work Orders, BOMs and the production reports; menu Stock and Manufacturing (`erp_internal/batas_user.py`).
   Guide: `docs/panduan/user.md`.
 - **Admin**: also the manager roles (Work Orders, items, suppliers, BOMs, stock reconciliation, selling, buying,
   projects, HR), users and the business
-  settings (rail entry Settings). `erp_internal/pengguna.py` lets an Admin give only the Admin and User roles and
+  settings (menu header Settings). `erp_internal/pengguna.py` lets an Admin give only the Admin and User roles and
   never change a Developer's account. Guide: `docs/panduan/admin.md`.
 - **Developer**: Admin plus System Manager (Build, System Settings).
 

diff --git a/docs/TODO.md b/docs/TODO.md
@@ -2,11 +2,21 @@
 
 Order follows the plan (`docs/superpowers/plans/2026-10-27-erp-internal-plan.md`, Revisions 4, 2 and 3 first).
 
-Last full run (2026-11-03, guide pictures): 233 tests (13 unit + 220 integration), all OK; since then
+Last full run (2026-11-03, accordion menu): `run-tests --app erp_internal` 239 tests (13 unit + 226 integration),
+all OK; `cek_layar` 3 users OK (menu checks included); `lantai.mjs` all OK (pilih and perf rerun alone: during the
+full run they failed on load); `denah.test.mjs` 6 OK.
+Before that (2026-11-03, guide pictures): 233 tests (13 unit + 220 integration), all OK; since then
 `test_set_status_mesin_tidak_aktif` (module `test_production_floor` 16 OK, twice) and `test_akun` 2 OK.
 Before that (2026-11-02, item-to-machine list): 232 tests (13 unit + 219 integration), 231 OK + 1 fixed and rerun.
 Before that (2026-11-02, after the simpler User role): `bench --site erp-test.localhost run-tests --app erp_internal`:
 222 tests (13 unit + 209 integration), all OK. `node tools/cek_layar.mjs`: 3 users OK, every home shortcuts only.
+
+## Done: one labelled menu instead of the icon rail (Abel, 2026-11-03)
+- [x] Spec `docs/superpowers/specs/2026-11-03-sidebar-accordion-design.md`, plan `docs/superpowers/plans/2026-11-03-sidebar-accordion-plan.md`.
+- [x] `tampilan.menu_samping` (`erp_menu` in boot), `IKON_MODUL`, `IKON_RUMAH`, link icons that no longer repeat their
+  module's icon; `public/js/menu_samping.js` (one collapsible header per module, ERP and HR share it, dock-less);
+  `cek_layar` checks it per role; guide pictures retaken (9).
+- [ ] Abel: try it in the browser (`bench build --app erp_internal` already run; hard reload), incl. a phone.
 
 ## Done: run it on a laptop with only Docker (2026-11-03)
 - [x] Root `Makefile`: `make start-local` (first time `setup-local`: check-local, env-local, image-local, the server

diff --git a/docs/PROGRESS.md b/docs/PROGRESS.md
@@ -2,6 +2,17 @@
 
 Newest first. One entry per working session: what changed, test results as run, what is next.
 
+## 2026-11-03 (accordion menu)
+- PR #7 merged. The icon rail on ERP and HR pages is one labelled menu: a collapsible header per module (icon + name,
+  `IKON_MODUL`), the module's links under it, the page's module open, folds to a rail of module icons, phone drawer
+  the same. `tampilan.menu_samping` sends `erp_menu`; `public/js/menu_samping.js` patches Frappe's Sidebar (falls back
+  to Frappe's own on an error); Frappe's System app keeps its rail. Link icons fixed (Stock Entry, Delivery Note,
+  Warehouse, Purchase Order, Work Order, Project, settings rows, Home).
+- Tests: `run-tests --app erp_internal` 239 (13 unit + 226 integration) OK; `test_tampilan` 25 OK; `cek_layar` 3 users
+  OK (one earlier run failed on Developer homes from the 800 ms home wait, rerun clean); `lantai.mjs` OK (pilih and
+  perf failed while the full run loaded the machine, OK alone); `denah.test.mjs` 6 OK; `panduan_gambar` 9 retaken.
+- Next: Abel tries it, then PR to main.
+
 ## 2026-11-03 (local stack with only Docker)
 - Root `Makefile` for Samuel's laptop (Mac, or Windows through WSL): `make start-local` runs the server compose stack as
   project `erp-local` (`--project-directory .local`, git-ignored and in .dockerignore), builds `erp-internal:local` or

diff --git a/docs/panduan/admin.md b/docs/panduan/admin.md
@@ -2,8 +2,8 @@
 
 Untuk **Admin**. Admin bisa semua yang dikerjakan User (`user.md`), ditambah: perintah produksi (Work Order), barang, pemasok, resep (BOM),
 stok awal dan stok opname, HR, akun pengguna, dan pengaturan usaha. Akun pengguna, stok awal dan opname, dan
-pengaturan ada di ikon **Settings** di rel kiri; barang, pemasok dan BOM di modulnya (Stock, Buying,
-Manufacturing); HR di aplikasi **HR**.
+pengaturan ada di menu **Settings** di kiri; barang, pemasok dan BOM di modulnya (Stock, Buying,
+Manufacturing); HR di menu **HR**.
 
 Ada tiga peran (**Role Profile**):
 
